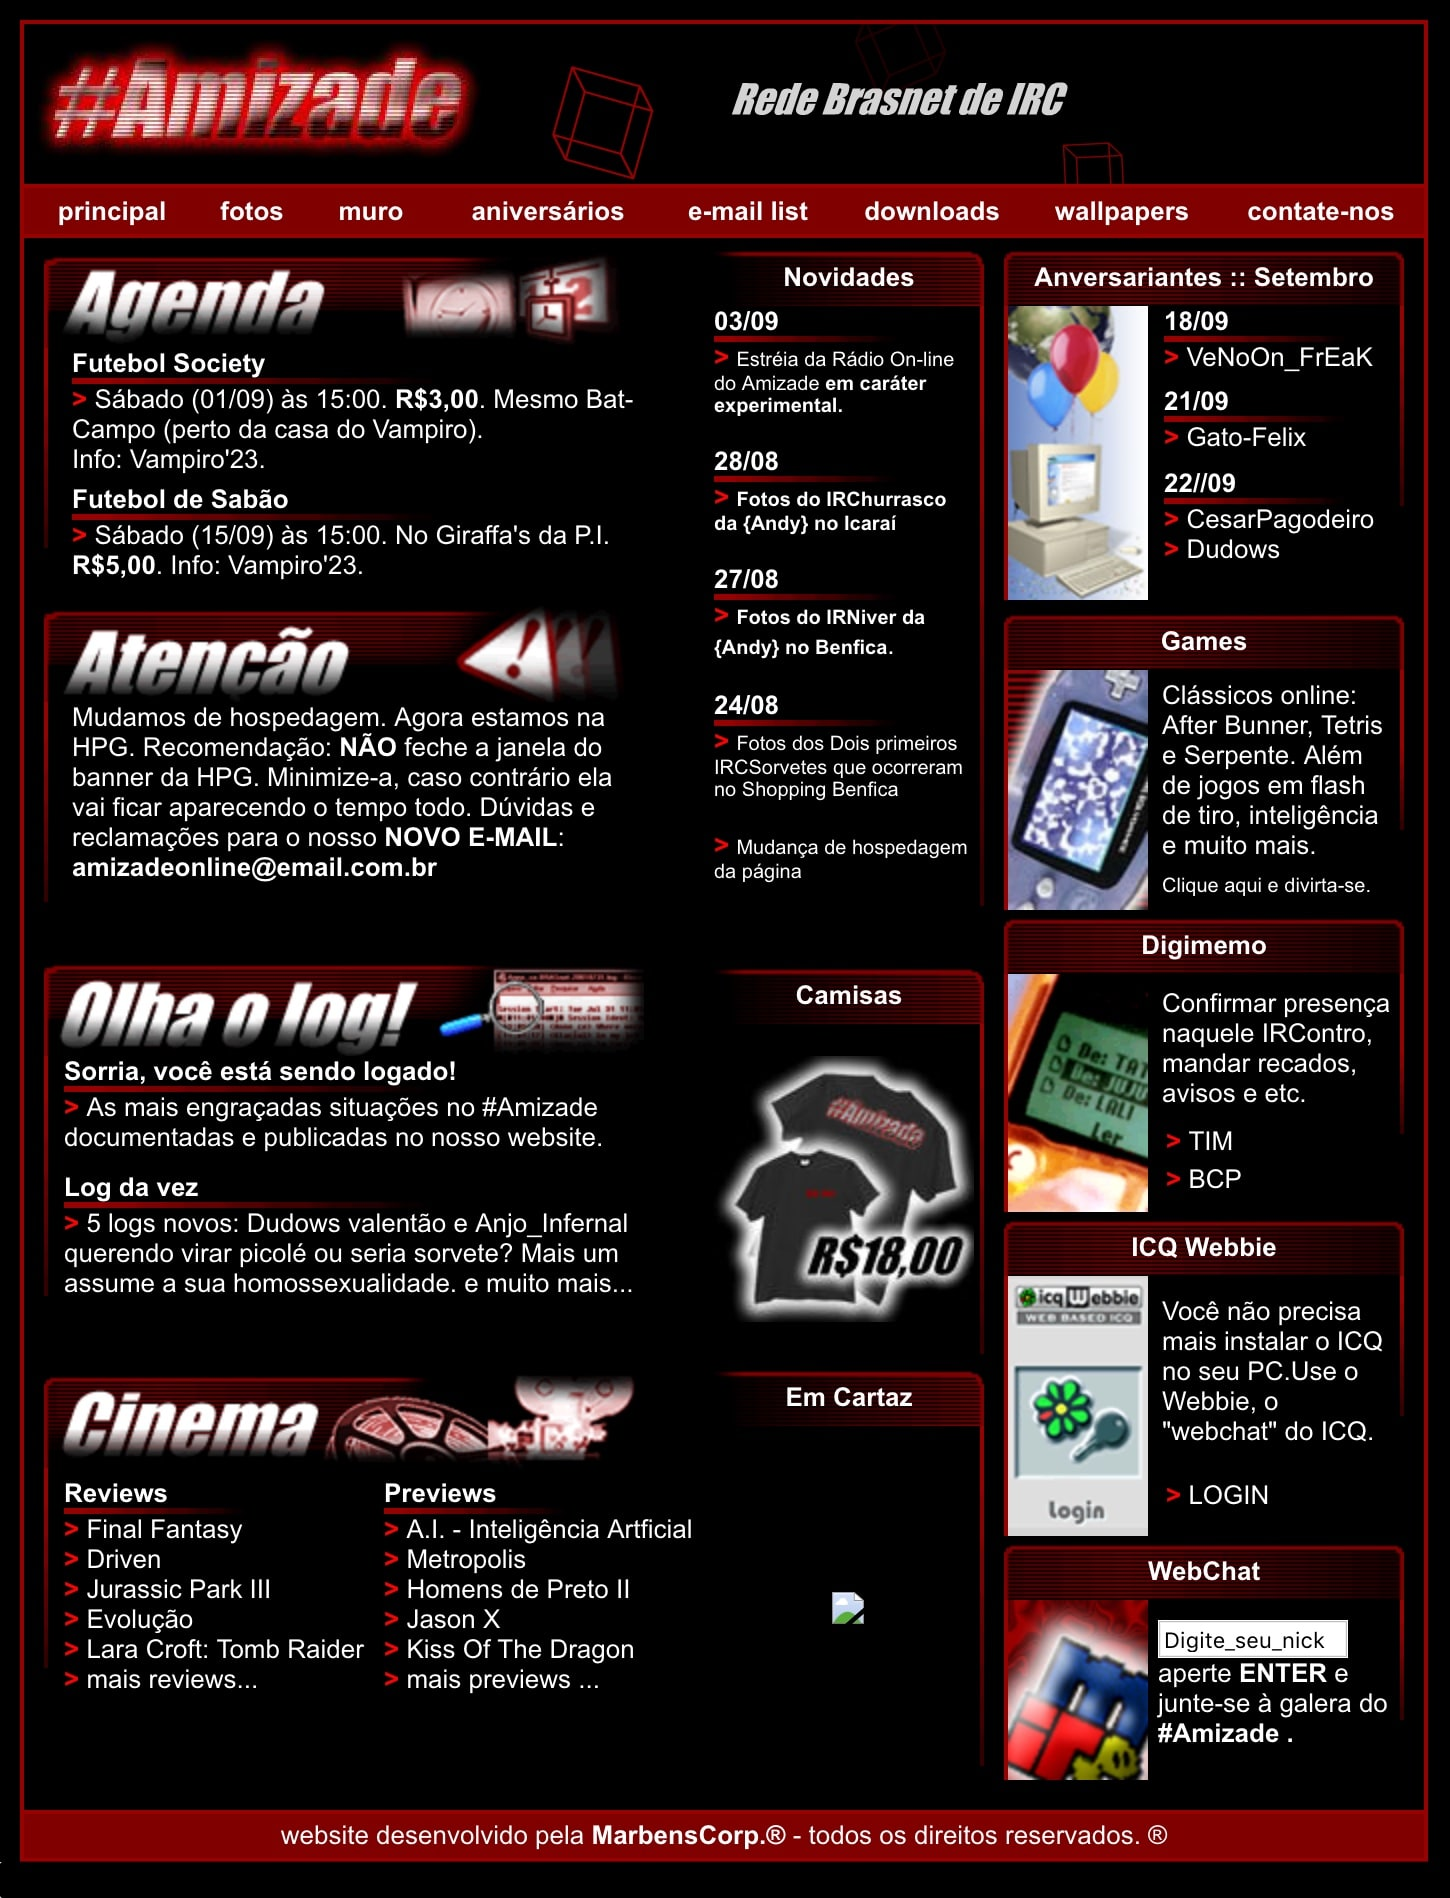
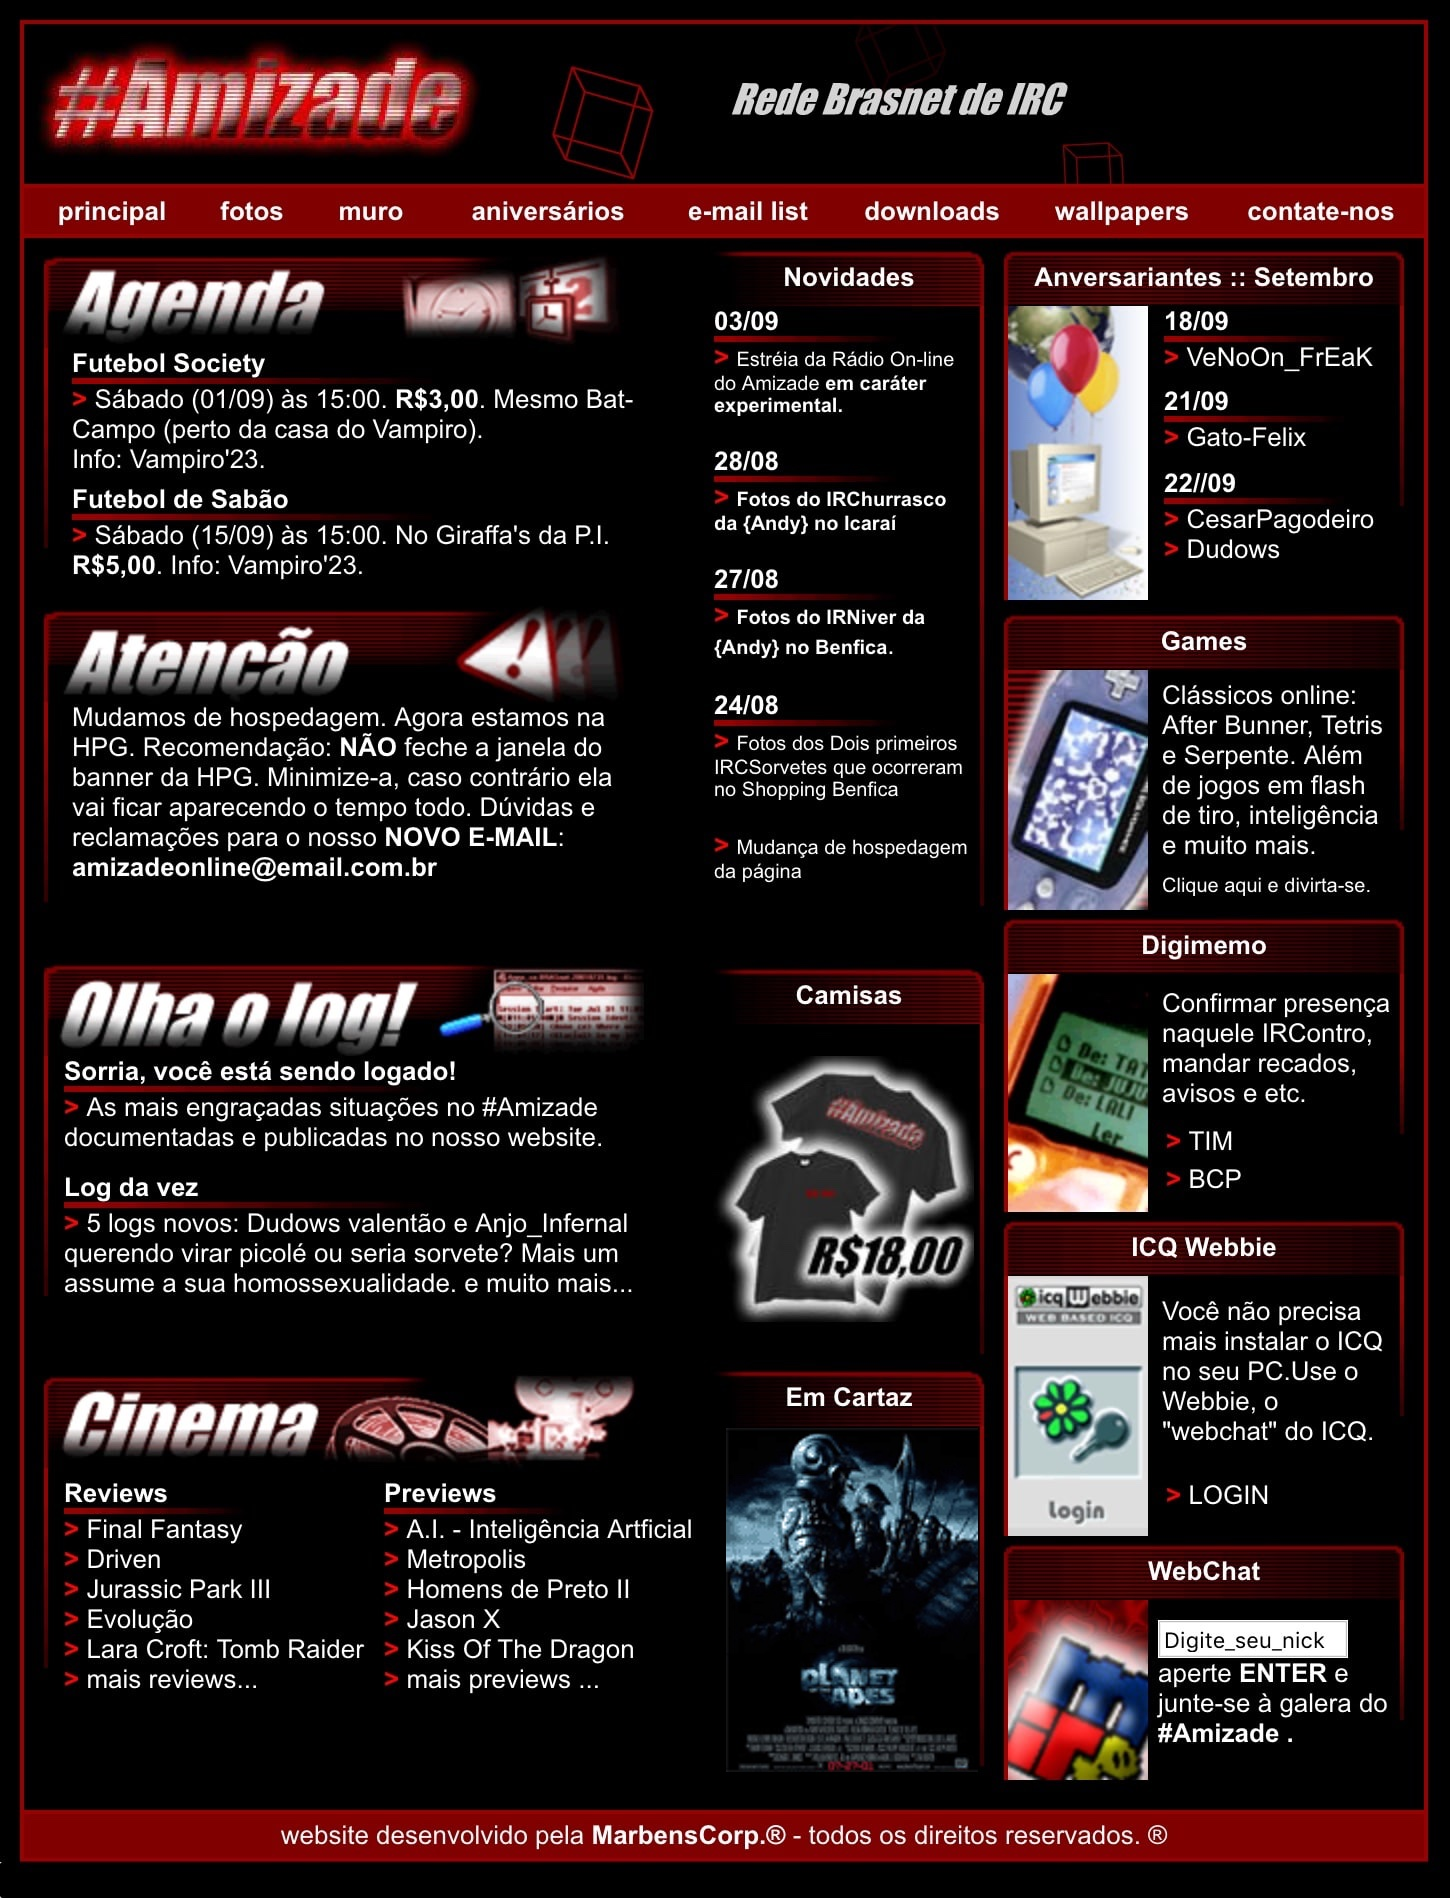
Add new screenshot

Changed region(s): [[0.4966, 0.746, 0.6828, 0.9326]]

diff --git a/front-end/index.html b/front-end/index.html
@@ -79,16 +79,16 @@ a {  }
 var theImages = new Array() 
 
 
-theImages[0] = 'http://www.amizadeonline.hpg.com.br/cinema/capas/capa_asenha.jpg'
+theImages[0] = 'cinema/capas/capa_asenha.jpg'
 
 
-theImages[1] = 'http://www.amizadeonline.hpg.com.br/cinema/capas/capa_fantasy.gif'
+theImages[1] = 'cinema/capas/capa_fantasy.gif'
 
 
-theImages[2] = 'http://www.amizadeonline.hpg.com.br/cinema/capas/capa_planetadosmacacos.gif'
+theImages[2] = 'cinema/capas/capa_planetadosmacacos.gif'
 
 
-theImages[3] = 'http://www.amizadeonline.hpg.com.br/cinema/capas/capa_gatos_numa_roubada.jpg'
+theImages[3] = 'cinema/capas/capa_gatos_numa_roubada.jpg'
 
 
 
